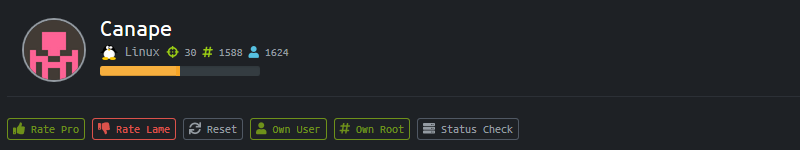
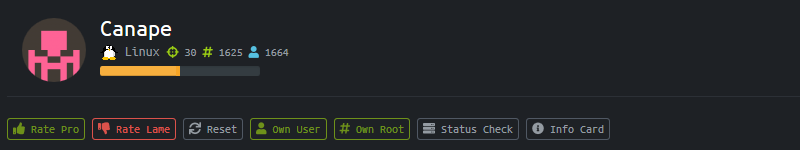
Minor updates

diff --git a/_posts/2018-08-25-htb-celestial-write-up.md b/_posts/2018-08-25-htb-celestial-write-up.md
@@ -15,6 +15,8 @@ published: true
 
 [![celestial-banner.png]({{ "/img/htb/boxes/celestial/celestial-banner.png" | relative_url }})](https://www.hackthebox.eu/home/machines/profile/130 "Hack The Box :: Celestial")
 
+![celestial-info.png]({{ "/img/htb/boxes/celestial/celestial-info.png" | relative_url }})
+
 <h4 style="color:red;">Celestial: 10.10.10.85</h4>
 
 * TOC
@@ -439,3 +441,5 @@ Web RCE ⟶ Reverse shell ⟶ LPE до user'а ⟶ LPE до root'а
 Здесь даже пропущено одно звено, т. к. первичный уязвимый сервис — фреймворк web-приложений, запущенный с привилегиями пользователя. Не то, что бы такие машины были плохими, вовсе нет. Просто будь готов, что достаточно скоро боксы, выстроенные по такой схеме, станут тебе скучны :unamused:
 
 ![celestial-owned.png]({{ "/img/htb/boxes/celestial/celestial-owned.png" | relative_url }})
+
+![celestial-trophy.png]({{ "/img/htb/boxes/celestial/celestial-trophy.png" | relative_url }})

diff --git a/_posts/2018-11-02-htb-tartarsauce-write-up.md b/_posts/2018-11-02-htb-tartarsauce-write-up.md
@@ -15,6 +15,8 @@ published: true
 
 [![tartarsauce-banner.png]({{ "/img/htb/boxes/tartarsauce/tartarsauce-banner.png" | relative_url }})](https://www.hackthebox.eu/home/machines/profile/138 "Hack The Box :: TartarSauce")
 
+![tartarsauce-info.png]({{ "/img/htb/boxes/tartarsauce/tartarsauce-info.png" | relative_url }})
+
 <h4 style="color:red;margin-bottom:0;">TartarSauce: 10.10.10.88</h4>
 <h4 style="color:red;">Kali: 10.10.14.14</h4>
 
@@ -910,3 +912,5 @@ drwxr-xr-x 5 root root 4096 Apr  5  2016 /var/www/html/webservices/monstra-3.0.4
 Приятного аппетита с соусом Тартар, спасибо за внимание :innocent:
 
 ![tartarsauce-owned.png]({{ "/img/htb/boxes/tartarsauce/tartarsauce-owned.png" | relative_url }})
+
+![tartarsauce-trophy.png]({{ "/img/htb/boxes/tartarsauce/tartarsauce-trophy.png" | relative_url }})

diff --git a/_posts/2018-09-05-htb-stratoshpere-write-up.md b/_posts/2018-09-05-htb-stratoshpere-write-up.md
@@ -15,6 +15,8 @@ published: true
 
 [![stratosphere-banner.png]({{ "/img/htb/boxes/stratosphere/stratosphere-banner.png" | relative_url }})](https://www.hackthebox.eu/home/machines/profile/129 "Hack The Box :: Stratosphere")
 
+![stratosphere-info.png]({{ "/img/htb/boxes/stratosphere/stratosphere-info.png" | relative_url }})
+
 <h4 style="color:red;">Stratosphere: 10.10.10.64</h4>
 
 * TOC
@@ -832,3 +834,5 @@ sh: 1: /root/success.py: not found
 Пройдя стратосферу, до звезд совсем недалеко, спасибо за внимание :innocent:
 
 ![stratosphere-owned.png]({{ "/img/htb/boxes/stratosphere/stratosphere-owned.png" | relative_url }})
+
+![stratosphere-trophy.png]({{ "/img/htb/boxes/stratosphere/stratosphere-trophy.png" | relative_url }})

diff --git a/_posts/2018-12-17-htb-active-write-up.md b/_posts/2018-12-17-htb-active-write-up.md
@@ -15,6 +15,8 @@ published: true
 
 [![active-banner.png]({{ "/img/htb/boxes/active/active-banner.png" | relative_url }})](https://www.hackthebox.eu/home/machines/profile/148 "Hack The Box :: Active")
 
+![active-info.png]({{ "/img/htb/boxes/active/active-info.png" | relative_url }})
+
 <h4 style="color:red;margin-bottom:0;">Active: 10.10.10.100</h4>
 <h4 style="color:red;">Kali: 10.10.14.14</h4>
 
@@ -819,3 +821,5 @@ root@kali:~# umount /mnt/smb
 Укрощайте трехголовых стражей царства мертвых, спасибо за внимание :innocent:
 
 ![active-owned.png]({{ "/img/htb/boxes/active/active-owned.png" | relative_url }})
+
+![active-trophy.png]({{ "/img/htb/boxes/active/active-trophy.png" | relative_url }})

diff --git a/_posts/2018-09-28-htb-canape-write-up.md b/_posts/2018-09-28-htb-canape-write-up.md
@@ -15,6 +15,8 @@ published: true
 
 [![canape-banner.png]({{ "/img/htb/boxes/canape/canape-banner.png" | relative_url }})](https://www.hackthebox.eu/home/machines/profile/134 "Hack The Box :: Canape")
 
+![canape-info.png]({{ "/img/htb/boxes/canape/canape-info.png" | relative_url }})
+
 <h4 style="color:red;margin-bottom:0;">Canape: 10.10.10.70</h4>
 <h4 style="color:red;">Kali: 10.10.14.14</h4>
 
@@ -870,3 +872,5 @@ application.secret_key = "sjhdajkh292hdq29dhashdkjsad"
 Теперь можно прилечь на диванчик, спасибо за внимание :innocent:
 
 ![canape-owned.png]({{ "/img/htb/boxes/canape/canape-owned.png" | relative_url }})
+
+![canape-trophy.png]({{ "/img/htb/boxes/canape/canape-trophy.png" | relative_url }})

diff --git a/_posts/2018-12-29-htb-waldo-write-up.md b/_posts/2018-12-29-htb-waldo-write-up.md
@@ -15,6 +15,8 @@ published: true
 
 [![waldo-banner.png]({{ "/img/htb/boxes/waldo/waldo-banner.png" | relative_url }})](https://www.hackthebox.eu/home/machines/profile/149 "Hack The Box :: Waldo")
 
+![waldo-info.png]({{ "/img/htb/boxes/waldo/waldo-info.png" | relative_url }})
+
 <h4 style="color:red;margin-bottom:0;">Waldo: 10.10.10.87</h4>
 <h4 style="color:red;">Kali: 10.10.14.14</h4>
 
@@ -913,3 +915,5 @@ tac: failed to open '/root/.ssh/authorized_keys' for reading: No such file or di
 Мы нашли спрятавшийся root, спасибо за внимание :innocent:
 
 ![waldo-owned.png]({{ "/img/htb/boxes/waldo/waldo-owned.png" | relative_url }})
+
+![waldo-trophy.png]({{ "/img/htb/boxes/waldo/waldo-trophy.png" | relative_url }})

diff --git a/_posts/2018-10-22-htb-devoops-write-up.md b/_posts/2018-10-22-htb-devoops-write-up.md
@@ -15,6 +15,8 @@ published: true
 
 [![devoops-banner.png]({{ "/img/htb/boxes/devoops/devoops-banner.png" | relative_url }})](https://www.hackthebox.eu/home/machines/profile/140 "Hack The Box :: DevOops")
 
+![devoops-info.png]({{ "/img/htb/boxes/devoops/devoops-info.png" | relative_url }})
+
 <h4 style="color:red;margin-bottom:0;">DevOops: 10.10.10.91</h4>
 <h4 style="color:red;">Kali: 10.10.14.14</h4>
 
@@ -864,3 +866,5 @@ C `< >` в роли "плохих" символов.
 Удачной разработки, спасибо за внимание :innocent:
 
 ![devoops-owned.png]({{ "/img/htb/boxes/devoops/devoops-owned.png" | relative_url }})
+
+![devoops-trophy.png]({{ "/img/htb/boxes/devoops/devoops-trophy.png" | relative_url }})

diff --git a/_posts/2018-10-09-htb-sunday-write-up.md b/_posts/2018-10-09-htb-sunday-write-up.md
@@ -15,6 +15,8 @@ published: true
 
 [![sunday-banner.png]({{ "/img/htb/boxes/sunday/sunday-banner.png" | relative_url }})](https://www.hackthebox.eu/home/machines/profile/136 "Hack The Box :: Sunday")
 
+![sunday-info.png]({{ "/img/htb/boxes/sunday/sunday-info.png" | relative_url }})
+
 <h4 style="color:red;margin-bottom:0;">Sunday: 10.10.10.76</h4>
 <h4 style="color:red;">Kali: 10.10.14.14</h4>
 
@@ -938,3 +940,5 @@ sunny@sunday:/backup$ ./agent22.backup
 Хорошего воскресенья, спасибо за внимание :innocent:
 
 ![sunday-owned.png]({{ "/img/htb/boxes/sunday/sunday-owned.png" | relative_url }})
+
+![sunday-trophy.png]({{ "/img/htb/boxes/sunday/sunday-trophy.png" | relative_url }})

diff --git a/_posts/2018-09-16-htb-poison-write-up.md b/_posts/2018-09-16-htb-poison-write-up.md
@@ -15,6 +15,8 @@ published: true
 
 [![poison-banner.png]({{ "/img/htb/boxes/poison/poison-banner.png" | relative_url }})](https://www.hackthebox.eu/home/machines/profile/132 "Hack The Box :: Poison")
 
+![poison-info.png]({{ "/img/htb/boxes/poison/poison-info.png" | relative_url }})
+
 <h4 style="color:red;margin-bottom:0;">Poison: 10.10.10.84</h4>
 <h4 style="color:red;">Kali: 10.10.14.14</h4>
 
@@ -481,3 +483,5 @@ Password: VNCP@$$!
 Держите при себе противоядия, спасибо за внимание :innocent:
 
 ![poison-owned.png]({{ "/img/htb/boxes/poison/poison-owned.png" | relative_url }})
+
+![poison-trophy.png]({{ "/img/htb/boxes/poison/poison-trophy.png" | relative_url }})

diff --git a/_posts/2018-10-03-htb-olympus-write-up.md b/_posts/2018-10-03-htb-olympus-write-up.md
@@ -15,6 +15,8 @@ published: true
 
 [![olympus-banner.png]({{ "/img/htb/boxes/olympus/olympus-banner.png" | relative_url }})](https://www.hackthebox.eu/home/machines/profile/135 "Hack The Box :: Olympus")
 
+![olympus-info.png]({{ "/img/htb/boxes/olympus/olympus-info.png" | relative_url }})
+
 <h4 style="color:red;margin-bottom:0;">Olympus: 10.10.10.83</h4>
 <h4 style="color:red;">Kali: 10.10.14.14</h4>
 
@@ -784,3 +786,5 @@ aba48699????????????????????????
 Слава богам, спасибо за внимание :innocent:
 
 ![olympus-owned.png]({{ "/img/htb/boxes/olympus/olympus-owned.png" | relative_url }})
+
+![olympus-trophy.png]({{ "/img/htb/boxes/olympus/olympus-trophy.png" | relative_url }})

diff --git a/_posts/2018-08-14-htb-valentine-write-up.md b/_posts/2018-08-14-htb-valentine-write-up.md
@@ -15,6 +15,8 @@ published: true
 
 [![valentine-banner.png]({{ "/img/htb/boxes/valentine/valentine-banner.png" | relative_url }})](https://www.hackthebox.eu/home/machines/profile/127 "Hack The Box :: Valentine")
 
+![valentine-info.png]({{ "/img/htb/boxes/valentine/valentine-info.png" | relative_url }})
+
 <h4 style="color:red;">Valentine: 10.10.10.79</h4>
 
 * TOC
@@ -477,3 +479,5 @@ hype@Valentine:~$ rm dirty.c dirty
 Берегите свое(и) сердце(а), спасибо за внимание :innocent:
 
 ![valentine-owned.png]({{ "/img/htb/boxes/valentine/valentine-owned.png" | relative_url }})
+
+![valentine-trophy.png]({{ "/img/htb/boxes/valentine/valentine-trophy.png" | relative_url }})

diff --git a/_posts/2018-11-10-htb-bounty-write-up.md b/_posts/2018-11-10-htb-bounty-write-up.md
@@ -15,6 +15,8 @@ published: true
 
 [![bounty-banner.png]({{ "/img/htb/boxes/bounty/bounty-banner.png" | relative_url }})](https://www.hackthebox.eu/home/machines/profile/142 "Hack The Box :: Bounty")
 
+![bounty-info.png]({{ "/img/htb/boxes/bounty/bounty-info.png" | relative_url }})
+
 <h4 style="color:red;margin-bottom:0;">Bounty: 10.10.10.93</h4>
 <h4 style="color:red;">Kali: 10.10.14.14</h4>
 
@@ -658,3 +660,5 @@ Hip, hip, hurray! :relieved:
 Награда ждет, спасибо за внимание :innocent:
 
 ![bounty-owned.png]({{ "/img/htb/boxes/bounty/bounty-owned.png" | relative_url }})
+
+![bounty-trophy.png]({{ "/img/htb/boxes/bounty/bounty-trophy.png" | relative_url }})
